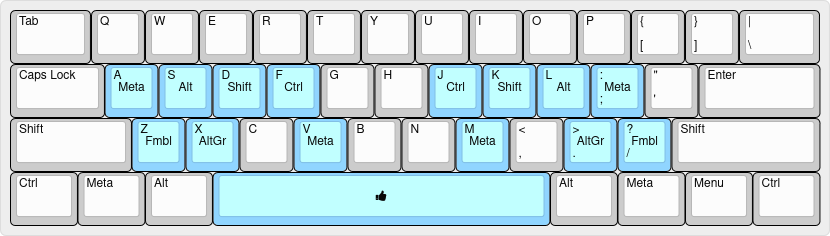
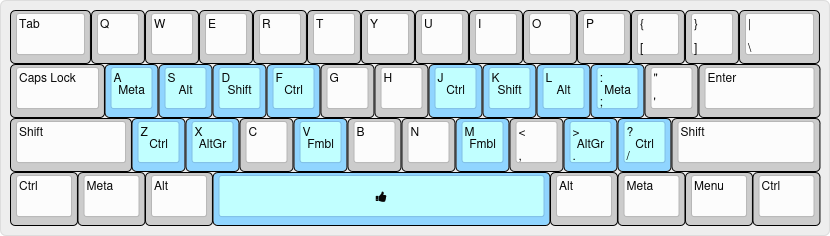
Center fmbl layer modifier.

diff --git a/README.md b/README.md
@@ -23,7 +23,7 @@ Blue keys represent changes to the default layer. Orange indicates which keys ca
 
 > Bear in mind that layer and modifier keys will activate only if another key is tapped immediately after. Otherwise, the expected repeat or long-press action will be respected (although a slight delay may be perceived).
 
-#### [Main](https://www.keyboard-layout-editor.com/##@_name=Main;&@_w:1.5;&=Tab&=Q&=W&=E&=R&=T&=Y&=U&=I&=O&=P&=%7B%0A%5B&=%7D%0A%5D&_w:1.5;&=%7C%0A%5C;&@_w:1.75;&=Caps%20Lock&_c=#90D5FF;&=A%0A%0A%0A%0A%0A%0A%0A%0A%0AMeta&=S%0A%0A%0A%0A%0A%0A%0A%0A%0AAlt&=D%0A%0A%0A%0A%0A%0A%0A%0A%0AShift&=F%0A%0A%0A%0A%0A%0A%0A%0A%0ACtrl&_c=#cccccc;&=G&=H&_c=#90D5FF;&=J%0A%0A%0A%0A%0A%0A%0A%0A%0ACtrl&=K%0A%0A%0A%0A%0A%0A%0A%0A%0AShift&=L%0A%0A%0A%0A%0A%0A%0A%0A%0AAlt&=/:%0A/;%0A%0A%0A%0A%0A%0A%0A%0AMeta&_c=#cccccc;&=%22%0A'&_w:2.25;&=Enter;&@_w:2.25;&=Shift&_c=#90D5FF;&=Z%0A%0A%0A%0A%0A%0A%0A%0A%0AFmbl&=X%0A%0A%0A%0A%0A%0A%0A%0A%0AAltGr&_c=#cccccc;&=C&_c=#90D5FF;&=V%0A%0A%0A%0A%0A%0A%0A%0A%0AMeta&_c=#cccccc;&=B&=N&_c=#90D5FF;&=M%0A%0A%0A%0A%0A%0A%0A%0A%0AMeta&_c=#cccccc;&=%3C%0A,&_c=#90D5FF;&=%3E%0A.%0A%0A%0A%0A%0A%0A%0A%0AAltGr&=?%0A//%0A%0A%0A%0A%0A%0A%0A%0AFmbl&_c=#cccccc&w:2.75;&=Shift;&@_w:1.25;&=Ctrl&_w:1.25;&=Meta&_w:1.25;&=Alt&_c=#90D5FF&a:7&w:6.25;&=%3Ci%20class/='fa%20fa-thumbs-up'%3E%3C//i%3E&_c=#cccccc&a:4&w:1.25;&=Alt&_w:1.25;&=Meta&_w:1.25;&=Menu&_w:1.25;&=Ctrl)
+#### [Main](https://www.keyboard-layout-editor.com/##@_name=Main;&@_w:1.5;&=Tab&=Q&=W&=E&=R&=T&=Y&=U&=I&=O&=P&=%7B%0A%5B&=%7D%0A%5D&_w:1.5;&=%7C%0A%5C;&@_w:1.75;&=Caps%20Lock&_c=#90D5FF;&=A%0A%0A%0A%0A%0A%0A%0A%0A%0AMeta&=S%0A%0A%0A%0A%0A%0A%0A%0A%0AAlt&=D%0A%0A%0A%0A%0A%0A%0A%0A%0AShift&=F%0A%0A%0A%0A%0A%0A%0A%0A%0ACtrl&_c=#cccccc;&=G&=H&_c=#90D5FF;&=J%0A%0A%0A%0A%0A%0A%0A%0A%0ACtrl&=K%0A%0A%0A%0A%0A%0A%0A%0A%0AShift&=L%0A%0A%0A%0A%0A%0A%0A%0A%0AAlt&=/:%0A/;%0A%0A%0A%0A%0A%0A%0A%0AMeta&_c=#cccccc;&=%22%0A'&_w:2.25;&=Enter;&@_w:2.25;&=Shift&_c=#90D5FF;&=Z%0A%0A%0A%0A%0A%0A%0A%0A%0ACtrl&=X%0A%0A%0A%0A%0A%0A%0A%0A%0AAltGr&_c=#cccccc;&=C&_c=#90D5FF;&=V%0A%0A%0A%0A%0A%0A%0A%0A%0AFmbl&_c=#cccccc;&=B&=N&_c=#90D5FF;&=M%0A%0A%0A%0A%0A%0A%0A%0A%0AFmbl&_c=#cccccc;&=%3C%0A,&_c=#90D5FF;&=%3E%0A.%0A%0A%0A%0A%0A%0A%0A%0AAltGr&=?%0A//%0A%0A%0A%0A%0A%0A%0A%0ACtrl&_c=#cccccc&w:2.75;&=Shift;&@_w:1.25;&=Ctrl&_w:1.25;&=Meta&_w:1.25;&=Alt&_c=#90D5FF&a:7&w:6.25;&=%3Ci%20class/='fa%20fa-thumbs-up'%3E%3C//i%3E&_c=#cccccc&a:4&w:1.25;&=Alt&_w:1.25;&=Meta&_w:1.25;&=Menu&_w:1.25;&=Ctrl)
   
 ![Main layer image](images/main.png)
 
@@ -34,20 +34,20 @@ The default layer of this layout makes use of _Home Row Modifiers_ (see [pattern
 
 > The `Meta` key is also known as `Win`, `Command`, `Super` or `Gui`. The `Alt` key is referred to as `Option` on MacOS. 
 
-The bottom row contains layer keys to quickly access funciton, number and symbol keys as well as the `AltGr` and `Meta` modifiers to make some key combinations more convenient:
+The bottom row contains layer keys to quickly access funciton, number and symbol keys as well as the `Control` and `AltGr` modifiers to make some key combinations more convenient:
 
-- Hold `Z`, `C` and `V` for `Fumbol`, `AltGr` and `Meta` respectively.
-- Hold `M`, `.` and `/` for `Meta`, `AltGr` and `Fumbol` respectively.
+- Hold `Z`, `C` and `V` for `Control`, `AltGr` and `Fumbol` respectively.
+- Hold `M`, `.` and `/` for `Fumbol`, `AltGr` and `Control` respectively.
 
 The spacebar is also a layer key and behaves as an entry point to the following layers, defaulting to the Extend layer described below.
   
-#### [Extend](https://www.keyboard-layout-editor.com/##@_name=extend;&@_w:1.5;&=Tab&=Q&=W&_c=#90D5FF&a:5;&=%0A%3Ci%20class/='fa%20fa-exchange'%3E%3C//i%3E%0A%0A%0A%0A%0AFmbl&=%0A%3Ci%20class/='fa%20fa-exchange'%3E%3C//i%3E%0A%0A%0A%0A%0AShift&_c=#cccccc&a:4;&=T&_c=#90D5FF;&=Insert&=Home&=%E2%86%91&=End&=PgUp&_c=#cccccc;&=%7B%0A%5B&=%7D%0A%5D&_w:1.5;&=%7C%0A%5C;&@_w:1.75;&=Caps%20Lock&_c=#90D5FF;&=Meta&=Alt&=Shift&=Ctrl&=Menu&=Esc&=%E2%86%90&=%E2%86%93&=%E2%86%92&=PgDn&_c=#cccccc;&=%22%0A'&_w:2.25;&=Enter;&@_w:2.25;&=Shift&_c=#90D5FF;&=%3Ci%20class/='kb%20kb-Multimedia-Play-Pause'%3E%3C//i%3E&=%3Ci%20class/='kb%20kb-Multimedia-Mute-2'%3E%3C//i%3E&=%3Ci%20class/='kb%20kb-Multimedia-Volume-Down-2'%3E%3C//i%3E&=%3Ci%20class/='kb%20kb-Multimedia-Volume-Up-2'%3E%3C//i%3E%0A%0A%0A%0A%0A%0A%0A%0A%0AMeta&_c=#cccccc;&=B&_c=#90D5FF;&=Tab&=Bspc&=Spc&=Del&=Enter&_c=#cccccc&w:2.75;&=Shift;&@_w:1.25;&=Ctrl&_w:1.25;&=Meta&_w:1.25;&=Alt&_c=#FFA500&a:7&w:6.25;&=&_c=#cccccc&a:4&w:1.25;&=Alt&_w:1.25;&=Meta&_w:1.25;&=Menu&_w:1.25;&=Ctrl)
+#### [Extend](https://www.keyboard-layout-editor.com/##@_name=extend;&@_w:1.5;&=Tab&=Q&=W&_c=#90D5FF&a:5;&=%0A%3Ci%20class/='fa%20fa-exchange'%3E%3C//i%3E%0A%0A%0A%0A%0AFmbl&=%0A%3Ci%20class/='fa%20fa-exchange'%3E%3C//i%3E%0A%0A%0A%0A%0AShift&_c=#cccccc&a:4;&=T&_c=#90D5FF;&=Insert&=Home&=%E2%86%91&=End&=PgUp&_c=#cccccc;&=%7B%0A%5B&=%7D%0A%5D&_w:1.5;&=%7C%0A%5C;&@_w:1.75;&=Caps%20Lock&_c=#90D5FF;&=Meta&=Alt&=Shift&=Ctrl&=Menu&=Esc&=%E2%86%90&=%E2%86%93&=%E2%86%92&=PgDn&_c=#cccccc;&=%22%0A'&_w:2.25;&=Enter;&@_w:2.25;&=Shift&_c=#90D5FF;&=%3Ci%20class/='kb%20kb-Multimedia-Play-Pause'%3E%3C//i%3E&=%3Ci%20class/='kb%20kb-Multimedia-Mute-2'%3E%3C//i%3E&=%3Ci%20class/='kb%20kb-Multimedia-Volume-Down-2'%3E%3C//i%3E&=%3Ci%20class/='kb%20kb-Multimedia-Volume-Up-2'%3E%3C//i%3E&_c=#cccccc;&=B&_c=#90D5FF;&=Tab&=Bspc&=Spc&=Del&=Enter&_c=#cccccc&w:2.75;&=Shift;&@_w:1.25;&=Ctrl&_w:1.25;&=Meta&_w:1.25;&=Alt&_c=#FFA500&a:7&w:6.25;&=&_c=#cccccc&a:4&w:1.25;&=Alt&_w:1.25;&=Meta&_w:1.25;&=Menu&_w:1.25;&=Ctrl)
   
 ![Extend layer image](images/extend.png)
 
 While holding the spacebar the navigation and editing keys will become accessible under the fingers of your right hand. With your left hand you will be able to access the modifier and media keys. The Shift and Fumbol keys can be used to switch to the corresponding layer, which will remain active until you release the spacebar.
 
-#### [Fumbol](https://www.keyboard-layout-editor.com/##@_name=Fumbol;&@_w:1.5;&=Tab&_c=#90D5FF;&=F1&=F2&=F3&=F4&=F5&=F6&=F7&=F8&=F9&=F10&_c=#cccccc;&=%7B%0A%5B&=%7D%0A%5D&_w:1.5;&=%7C%0A%5C;&@_w:1.75;&=Caps%20Lock&_c=#90D5FF;&=!%0A1%0A%0A%0A%0A%0A%0A%0A%0AMeta&=/@%0A2%0A%0A%0A%0A%0A%0A%0A%0AAlt&=#%0A3%0A%0A%0A%0A%0A%0A%0A%0AShift&=$%0A4%0A%0A%0A%0A%0A%0A%0A%0ACtrl&=%25%0A5&=%5E%0A6&=/&%0A7%0A%0A%0A%0A%0A%0A%0A%0ACtrl&=*%0A8%0A%0A%0A%0A%0A%0A%0A%0AShift&=(%0A9%0A%0A%0A%0A%0A%0A%0A%0AAlt&=)%0A0%0A%0A%0A%0A%0A%0A%0A%0AMeta&_c=#cccccc;&=%22%0A'&_w:2.25;&=Enter;&@_w:2.25;&=Shift&_c=#FFA500;&=%7C%0A%5C&_c=#90D5FF;&=~%0A%60%0A%0A%0A%0A%0A%0A%0A%0AAltGr&=/_%0A-&=+%0A/=%0A%0A%0A%0A%0A%0A%0A%0AMeta&=F11&=F12&=%22%0A'%0A%0A%0A%0A%0A%0A%0A%0AMeta&=%7B%0A%5B&=%7D%0A%5D%0A%0A%0A%0A%0A%0A%0A%0AAltGr&_c=#FFA500;&=%7C%0A%5C&_c=#cccccc&w:2.75;&=Shift;&@_w:1.25;&=Ctrl&_w:1.25;&=Meta&_w:1.25;&=Alt&_c=#FFA500&a:7&w:6.25;&=&_c=#cccccc&a:4&w:1.25;&=Alt&_w:1.25;&=Meta&_w:1.25;&=Menu&_w:1.25;&=Ctrl)
+#### [Fumbol](https://www.keyboard-layout-editor.com/##@_name=Fumbol;&@_w:1.5;&=Tab&_c=#90D5FF;&=F1&=F2&=F3&=F4&=F5&=F6&=F7&=F8&=F9&=F10&_c=#cccccc;&=%7B%0A%5B&=%7D%0A%5D&_w:1.5;&=%7C%0A%5C;&@_w:1.75;&=Caps%20Lock&_c=#90D5FF;&=!%0A1%0A%0A%0A%0A%0A%0A%0A%0AMeta&=/@%0A2%0A%0A%0A%0A%0A%0A%0A%0AAlt&=#%0A3%0A%0A%0A%0A%0A%0A%0A%0AShift&=$%0A4%0A%0A%0A%0A%0A%0A%0A%0ACtrl&=%25%0A5&=%5E%0A6&=/&%0A7%0A%0A%0A%0A%0A%0A%0A%0ACtrl&=*%0A8%0A%0A%0A%0A%0A%0A%0A%0AShift&=(%0A9%0A%0A%0A%0A%0A%0A%0A%0AAlt&=)%0A0%0A%0A%0A%0A%0A%0A%0A%0AMeta&_c=#cccccc;&=%22%0A'&_w:2.25;&=Enter;&@_w:2.25;&=Shift&_c=#90D5FF;&=%7C%0A%5C%0A%0A%0A%0A%0A%0A%0A%0ACtrl&=~%0A%60%0A%0A%0A%0A%0A%0A%0A%0AAltGr&=/_%0A-&_c=#FFA500;&=+%0A/=&_c=#90D5FF;&=F11&=F12&_c=#FFA500;&=%22%0A'&_c=#90D5FF;&=%7B%0A%5B&=%7D%0A%5D%0A%0A%0A%0A%0A%0A%0A%0AAltGr&=%7C%0A%5C%0A%0A%0A%0A%0A%0A%0A%0ACtrl&_c=#cccccc&w:2.75;&=Shift;&@_w:1.25;&=Ctrl&_w:1.25;&=Meta&_w:1.25;&=Alt&_c=#FFA500&a:7&w:6.25;&=&_c=#cccccc&a:4&w:1.25;&=Alt&_w:1.25;&=Meta&_w:1.25;&=Menu&_w:1.25;&=Ctrl)
   
 ![Fumbol layer image](images/fumbol.png)
 
